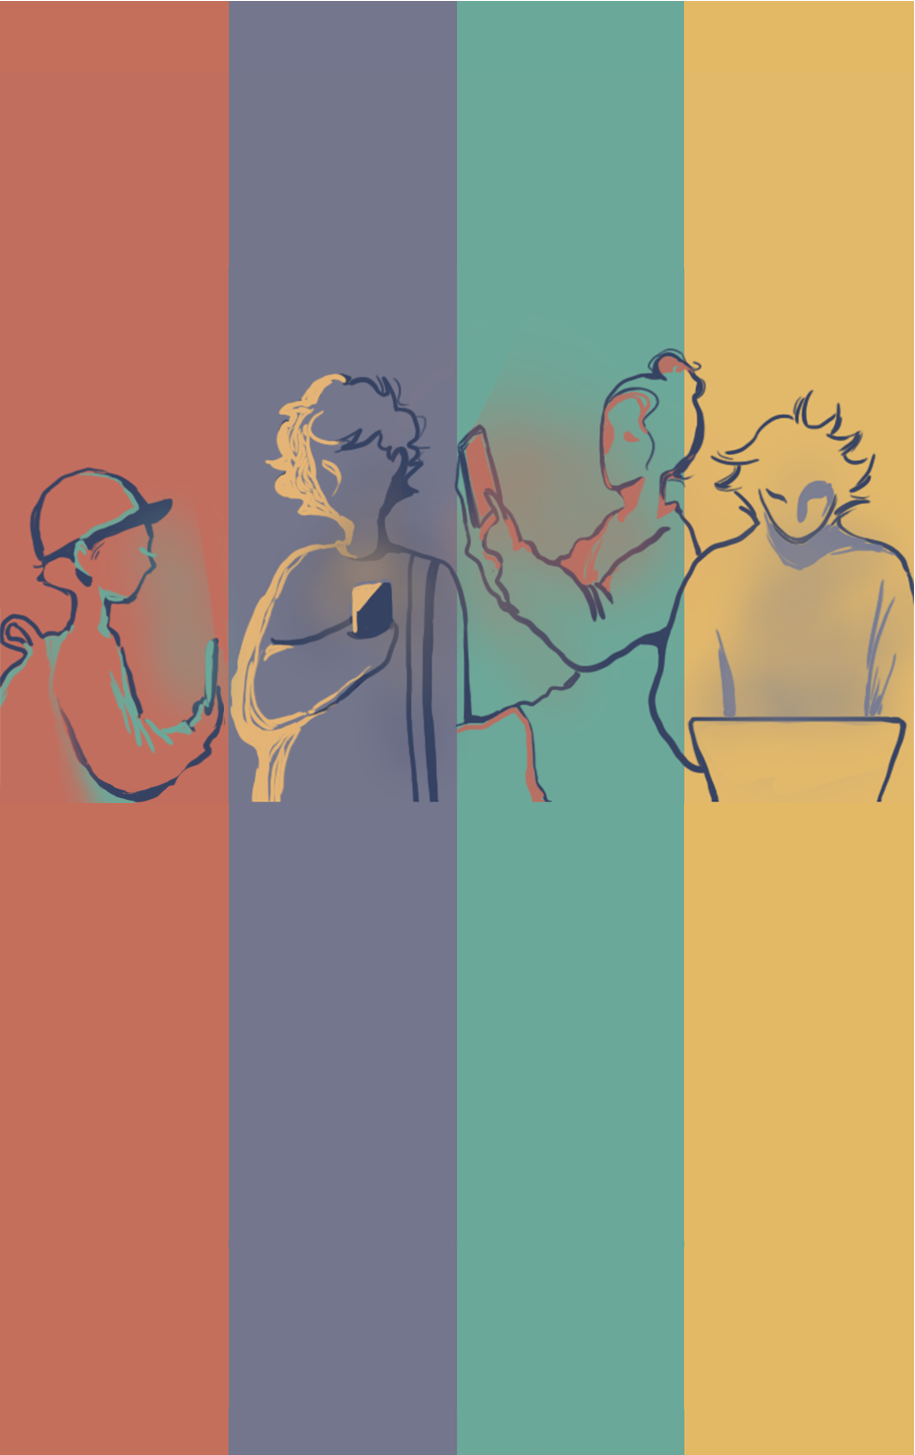
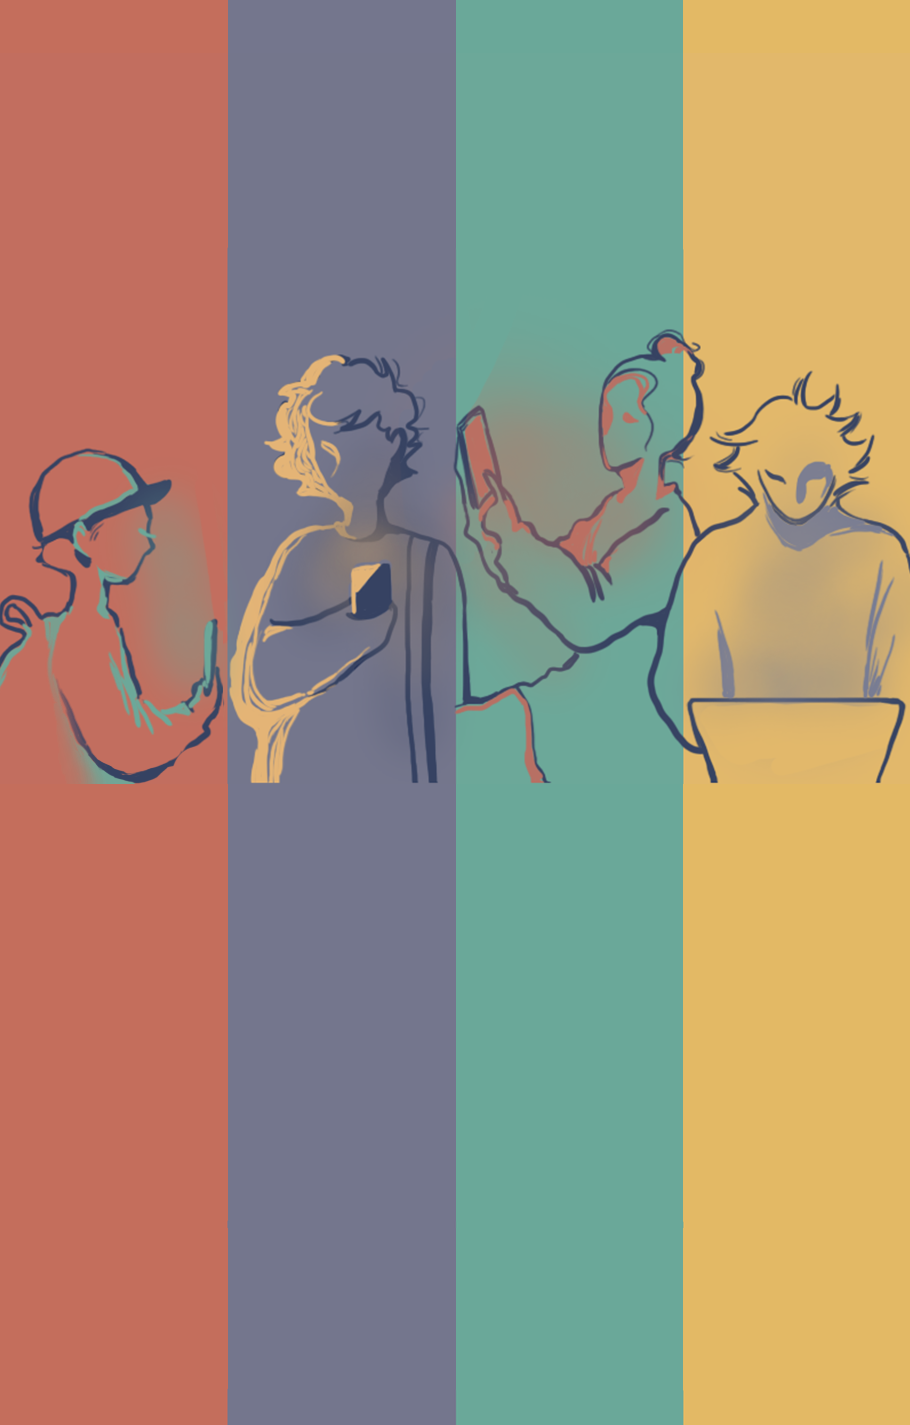
Background repeat

Changed region(s): [[0.0923, 0.0, 1.0, 1.0], [0.0, 0.3088, 0.1846, 0.494]]

diff --git a/assets/css/main.css b/assets/css/main.css
@@ -2797,7 +2797,7 @@ input, select, textarea {
 
 #better-header {
     background: url("../../images/LongBkImg.png");
-    background-size: cover;
+    background-size: contain;
     background-position: top center;
     min-height: 100vw;
 }
